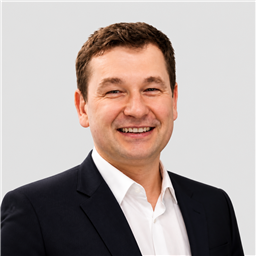
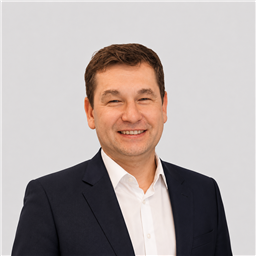
Prezydium: zdjęcia całej czwórki (Dariusz, Sławomir) + nowe Jerzy

diff --git a/strona/index.html b/strona/index.html
@@ -1441,7 +1441,7 @@ form input.display-none{display:none!important}
 </div>
 <div class="elementor-element elementor-element-bd67377 e-con-full e-flex elementor-invisible e-con e-child" data-e-type="container" data-element_type="container" data-id="bd67377" data-settings='{"animation":"fadeInLeft","animation_delay":900}'>
 <div class="elementor-element elementor-element-2fc2b06 elementor-widget elementor-widget-image" data-e-type="widget" data-element_type="widget" data-id="2fc2b06" data-widget_type="image.default">
-<img alt="" class="attachment-large size-large wp-image-391" decoding="async" height="25" loading="lazy" src="/wp-content/uploads/2026/03/avatar-3.svg" width="25"/> </div>
+<img alt="Dariusz Tomaszewski" class="attachment-large size-large wp-image-391" decoding="async" loading="lazy" src="/_assets/img/dariusz-tomaszewski.png" style="width:96px;height:96px;object-fit:cover;border-radius:50%;"/> </div>
 <div class="elementor-element elementor-element-b42d6e2 elementor-widget elementor-widget-heading" data-e-type="widget" data-element_type="widget" data-id="b42d6e2" data-widget_type="heading.default">
 <h5 class="elementor-heading-title elementor-size-default">Dariusz Tomaszewski</h5> </div>
 <div class="elementor-element elementor-element-3bac9b8 elementor-widget elementor-widget-text-editor" data-e-type="widget" data-element_type="widget" data-id="3bac9b8" data-widget_type="text-editor.default">
@@ -1449,7 +1449,7 @@ form input.display-none{display:none!important}
 </div>
 <div class="elementor-element elementor-element-ffcba44 e-con-full e-flex elementor-invisible e-con e-child" data-e-type="container" data-element_type="container" data-id="ffcba44" data-settings='{"animation":"fadeInLeft","animation_delay":900}'>
 <div class="elementor-element elementor-element-3e2dfcb elementor-widget elementor-widget-image" data-e-type="widget" data-element_type="widget" data-id="3e2dfcb" data-widget_type="image.default">
-<img alt="" class="attachment-large size-large wp-image-392" decoding="async" height="25" loading="lazy" src="/wp-content/uploads/2026/03/avatar-4.svg" width="25"/> </div>
+<img alt="Sławomir Zając" class="attachment-large size-large wp-image-392" decoding="async" loading="lazy" src="/_assets/img/slawomir-zajac.png" style="width:96px;height:96px;object-fit:cover;border-radius:50%;"/> </div>
 <div class="elementor-element elementor-element-2698a24 elementor-widget elementor-widget-heading" data-e-type="widget" data-element_type="widget" data-id="2698a24" data-widget_type="heading.default">
 <h5 class="elementor-heading-title elementor-size-default">Sławomir Zając</h5> </div>
 <div class="elementor-element elementor-element-8fa98f2 elementor-widget elementor-widget-text-editor" data-e-type="widget" data-element_type="widget" data-id="8fa98f2" data-widget_type="text-editor.default">